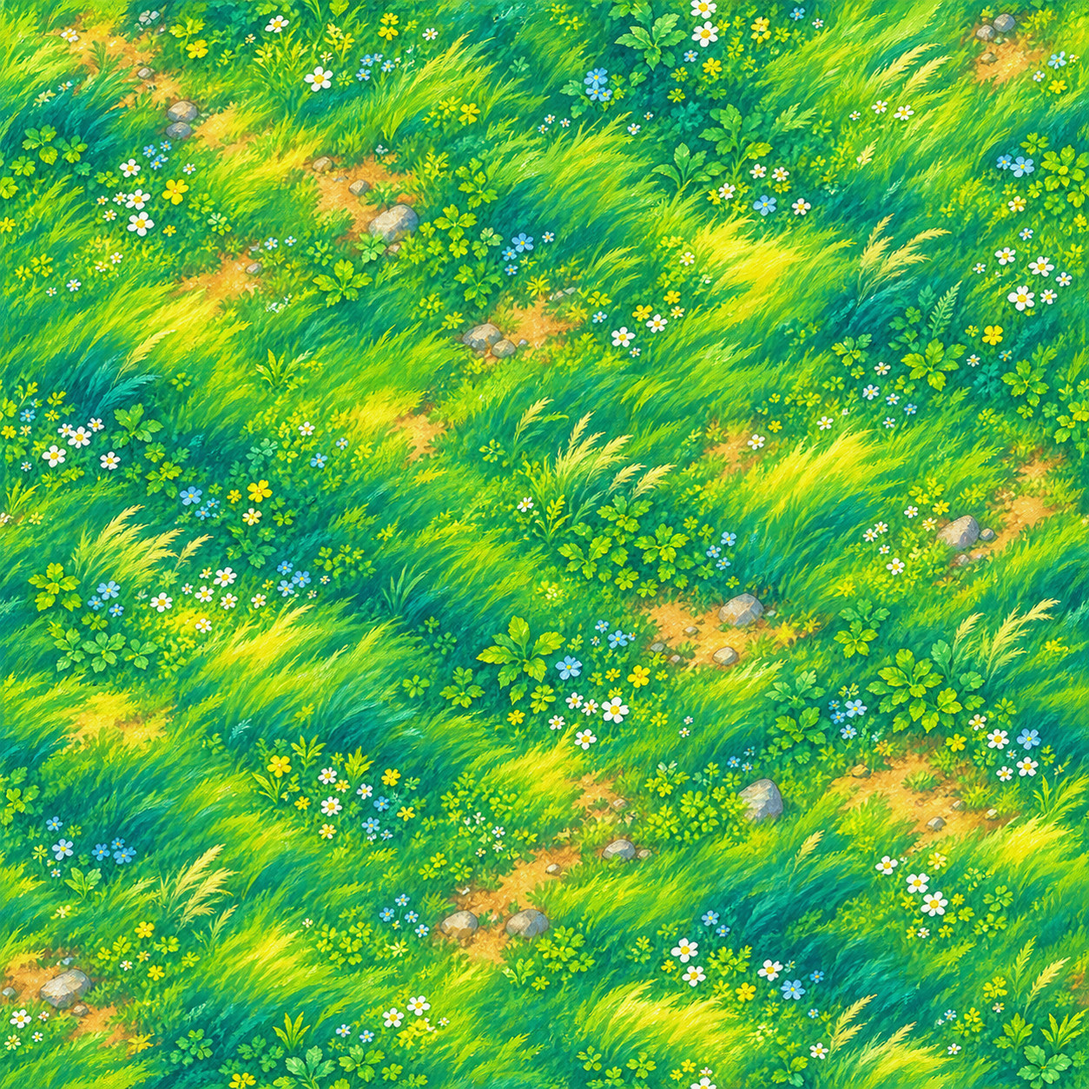
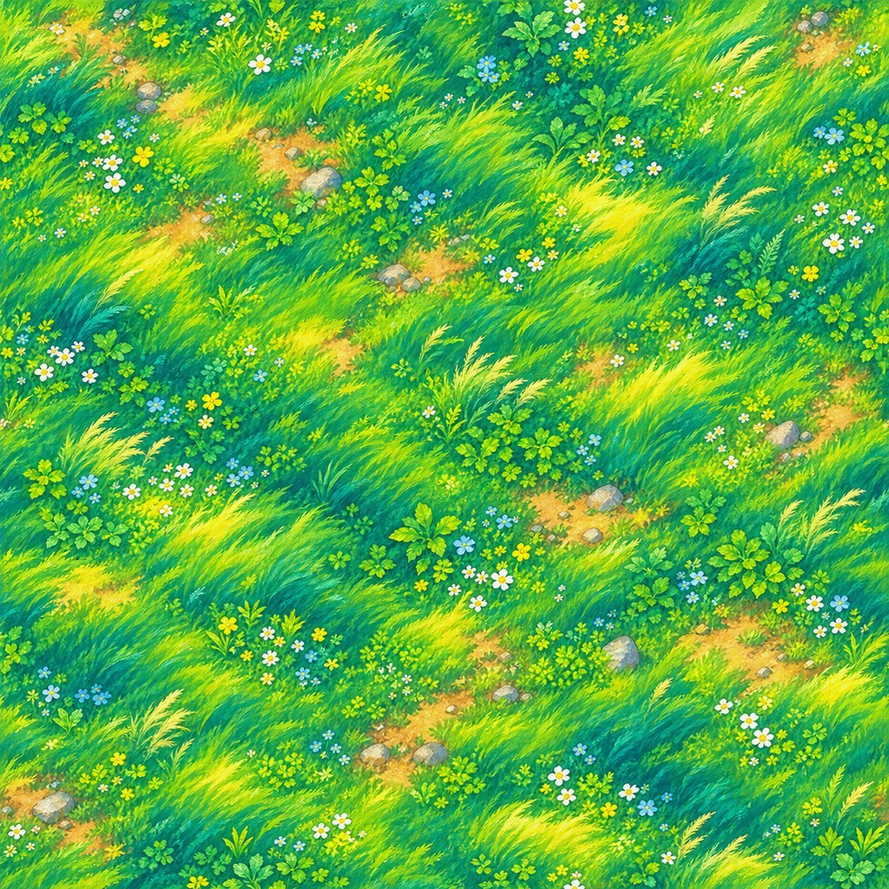
草地の縞・視界をふさぐ板・海に浮く三角を直す
見た目の粗として残っていた3点を修正した。

- 地面の反復を、横と縦で1タイルの大きさがそろうように計算しなおした。
  これまでは1タイルが横5・縦220ユニットを覆っていて、草が
  進行方向へ40倍に引きのばされ、縞のように見えていた（CONFIG.groundTileSize）
- 草土手の板を小さくし、道から遠ざけた。幅24・距離11.8だと
  大カーブでカメラの正面へ回りこみ、道路ごと視界をふさいでいた
- 地面に立つ板は たてを保つようにした。カメラのかたむきまで写していたため、
  下り坂で板がのけぞり、切り抜きが宙に浮いて見えていた。空の雲だけ従来どおり
- 対岸の山なみを、となりと重なる低い稜線にした。離して置くと
  海に浮かぶ灰色の三角に見えていた
- 壇山を低く・奥の列ほど空の色をまぜた緑にして、深く沈めた
- MeshLambertMaterial の flatShading を廃止（対応しておらず警告だけ出ていた）。
  稜線の面を出したい山は MeshPhongMaterial にした
- 8/23 追加の画像をほかの素材とおなじ大きさへそろえ、初回読み込みを 9.1MB → 6.0MB に

同じ地点での描画は 1.9ms → 2.4ms／ドローコールは変化なし。
周回してもジオメトリ956個・テクスチャ44枚で安定することを確認した。

diff --git a/game.js b/game.js
@@ -55,6 +55,7 @@ const CONFIG = {
   guidePostSpacing: 7,    // 大カーブの黄色ポールの間隔
   raftCount: 9,           // 海にうかぶ養殖いかだの数
   ridgeLayers: 3,         // 対岸の山なみのレイヤー数
+  groundTileSize: 30,     // 地面の絵1枚が覆う広さ（ユニット）。大きいほど筆づかいが大きく出る
 };
 
 /* ------------------------- 2. COURSE ★かえてみよう -------------------------
@@ -542,6 +543,7 @@ function makeCloudCluster(rng, tall = false) {
     const plane = new THREE.Mesh(new THREE.PlaneGeometry(2, tall ? 2.4 : 1.6), mat);
     g.add(plane);
     g.userData.billboard = true;
+    g.userData.sky = true;   // 空にうかぶ板だけは、カメラのかたむきごと向く
     return g;
   }
   const g = new THREE.Group();
@@ -948,7 +950,7 @@ function makeHouse(rng) {
   // 切妻屋根。三角柱を横に倒してつくる。
   const roof = new THREE.Mesh(
     sharedGeo('houseRoof', () => new THREE.CylinderGeometry(d * 0.72, d * 0.72, w * 1.06, 3)),
-    sharedMat('houseRoof', () => new THREE.MeshLambertMaterial({ color: 0x4a4038, flatShading: true }))
+    sharedMat('houseRoof', () => new THREE.MeshLambertMaterial({ color: 0x4a4038 }))
   );
   roof.rotation.z = Math.PI / 2;
   roof.rotation.y = Math.PI / 2;
@@ -1055,15 +1057,20 @@ function buildScenery(path, totalLength) {
 
   // 道路脇を3段に分ける。大きな平面1枚ではなく、高低差のある草地と石垣にする。
   // 大きな筆跡・土・小花が遠くでも残るよう、細かい反復をやめて低回数で貼る。
-  const makeGroundMat = (xRepeat, tint) => {
+  // UV は「帯の幅ぜんぶで 0→1」「コース全長で 0→1」でつくってある。
+  // そのため横と縦で「1タイルが覆うユニット数」をそろえないと、
+  // 草が進行方向へ引きのばされて、地面が縞のように見えてしまう。
+  const tile = CONFIG.groundTileSize;
+  const alongRepeat = Math.max(4, Math.round(totalLength / tile));
+  // 引数は「その材質を貼る帯のだいたいの幅」。左右で幅がちがうので平均を渡す。
+  const makeGroundMat = (bandWidth, tint) => {
     const material = new THREE.MeshLambertMaterial({ color: tint });
     material.userData.textureTint = tint;
-    return useTex('ground', material, [xRepeat, Math.max(4.5, totalLength / 220)]);
+    return useTex('ground', material, [bandWidth / tile, alongRepeat]);
   };
-  // 広い斜面へ横1枚を引き伸ばすと縞になるため、帯の幅に合わせて横の反復数を変える。
-  const grassNearMat = makeGroundMat(1.35, 0xaab99e);
-  const grassMidMat = makeGroundMat(3.2, 0x9fb394);
-  const grassFarMat = makeGroundMat(6.0, 0x96aa8d);
+  const grassNearMat = makeGroundMat(6.1, 0xaab99e);
+  const grassMidMat = makeGroundMat(14.4, 0x9fb394);
+  const grassFarMat = makeGroundMat(31, 0x96aa8d);
   worldGroup.add(buildRibbon(path, -roadHalf - 7, -roadHalf, grassNearMat, -0.06, totalLength));
   worldGroup.add(buildSlopedRibbon(path, -roadHalf - 24, -roadHalf - 7, grassMidMat, 2.0, 0.82, totalLength, 0.55));
   worldGroup.add(buildSlopedRibbon(path, -roadHalf - 58, -roadHalf - 24, grassFarMat, 4.1, 2.0, totalLength, 1.0));
@@ -1189,8 +1196,10 @@ function buildScenery(path, totalLength) {
 
   // 新しい横長素材を距離と高さをずらして重ね、同じ草1枚の反復を目立たなくする。
   const layeredScenery = [
-    { texture: TEX.meadowBankA, width: 24, height: 7.7, step: 27, near: 11.8, lift: 0.58 },
-    { texture: TEX.meadowBankB, width: 20, height: 6.4, step: 39, near: 17.5, lift: 0.94 },
+    // near（道からの距離）は かならず width の半分より大きくする。
+    // 近すぎる大きな板は、カーブでカメラの正面へ回りこんで視界をふさぐ。
+    { texture: TEX.meadowBankA, width: 17, height: 6.4, step: 27, near: 15.5, lift: 0.58 },
+    { texture: TEX.meadowBankB, width: 15, height: 5.4, step: 39, near: 19.0, lift: 0.94 },
     { texture: TEX.fantasyHedge, width: 16, height: 5.3, step: 25, near: 13.2, lift: 0.55 },
     { texture: TEX.fantasySlope, width: 21, height: 7.2, step: 76, near: 16.5, lift: 1.2 },
     { texture: TEX.fantasyGrove, width: 25, height: 11.4, step: 54, near: 28, lift: 2.25 },
@@ -1398,18 +1407,22 @@ function buildScenery(path, totalLength) {
   }
 
   // 対岸の山なみ。遠い層ほど空の色に近づけると、いっきに奥ゆきが出る。
-  const ridgeTints = [0x6d9cb8, 0x87b0c6, 0x9fc2d2];
+  // 山をひとつずつ離して置くと「海にうかぶサメのひれ」に見えてしまう。
+  // 半径を となり同士の間隔より大きくして重ね、ひとつづきの稜線にする。
+  const ridgeTints = [0x8fb6c6, 0xa6c8d4, 0xbad7de];
   for (let layer = 0; layer < CONFIG.ridgeLayers; layer++) {
     const ahead = 1250 + layer * 420;
     const scale = 1 + layer * 0.45;
+    const gap = 150 * scale;
     // 霧の色を焼きこんだ単色。fog を切らないと遠すぎて消えてしまう。
-    const ridgeMat = new THREE.MeshBasicMaterial({ color: ridgeTints[layer] || 0x9fc2d2, fog: false });
+    const ridgeMat = new THREE.MeshBasicMaterial({ color: ridgeTints[layer] || 0xbad7de, fog: false });
     for (let i = -7; i <= 7; i++) {
-      const r = (95 + rng() * 85) * scale;
-      const peak = new THREE.Mesh(new THREE.ConeGeometry(r, r * (0.28 + rng() * 0.16), 6), ridgeMat);
+      const r = gap * 1.15 + rng() * gap * 0.5;
+      // 高さは半径の2割ほど。とがらせるほど「対岸の島」ではなく「岩」に見える。
+      const peak = new THREE.Mesh(new THREE.ConeGeometry(r, r * (0.17 + rng() * 0.09), 6), ridgeMat);
       const rp = end.pos.clone()
-        .addScaledVector(end.forward, ahead + (rng() - 0.5) * 220)
-        .addScaledVector(end.right, i * 175 * scale + (rng() - 0.5) * 90);
+        .addScaledVector(end.forward, ahead + (rng() - 0.5) * 160)
+        .addScaledVector(end.right, i * gap + (rng() - 0.5) * 45);
       peak.position.set(rp.x, seaY, rp.z);
       worldGroup.add(peak);
     }
@@ -1428,16 +1441,24 @@ function buildScenery(path, totalLength) {
   }
 
   // 右手にそびえる壇山の稜線。「平らな緑」を断ち切る。
-  const mountainMat = new THREE.MeshLambertMaterial({ color: 0x4f7f45, flatShading: true });
+  // MeshLambertMaterial は flatShading を持たない（警告が出るだけで効かない）ので Phong を使う。
+  // 山は霧（260ユニットから）より手前に立つので、霧では ぼかせない。
+  // かわりに 奥の列ほど空の色をまぜた緑にして、自前で かすませる。
+  const mountainMats = [
+    new THREE.MeshPhongMaterial({ color: 0x5f8d55, flatShading: true, shininess: 2 }),
+    new THREE.MeshPhongMaterial({ color: 0x86a882, flatShading: true, shininess: 2 }),
+  ];
   for (let d = 60; d < totalLength; d += 120) {
     const s = sampleAt(path, d);
     for (let k = 0; k < 2; k++) {
-      const r = 46 + rng() * 34;
-      const hill = new THREE.Mesh(new THREE.ConeGeometry(r, r * (0.5 + rng() * 0.3), 7), mountainMat);
+      const r = 52 + rng() * 40;
+      // とがらせるほど「山」ではなく「三角の板」に見える。低くて丸い稜線にする。
+      const hill = new THREE.Mesh(new THREE.ConeGeometry(r, r * (0.32 + rng() * 0.16), 7), mountainMats[k]);
       // 山のふもとが道路へせり出さないよう、半径のぶんだけ必ず右へ逃がす
       const offset = roadHalf + 46 + r + k * 58 + rng() * 30;
       const hp = s.pos.clone().addScaledVector(s.right, offset);
-      hill.position.set(hp.x, s.pos.y - 6 + k * 4, hp.z);
+      // 深めに沈めて、ふもとを道ばたの草むらの後ろへ隠す
+      hill.position.set(hp.x, s.pos.y - 11 + k * 5, hp.z);
       worldGroup.add(hill);
     }
   }
@@ -1955,8 +1976,15 @@ function animate() {
 
   applyPendingRebuilds();
 
-  // 雲などの板は つねにカメラを向ける
-  for (const b of billboards) b.quaternion.copy(camera.quaternion);
+  // 板はカメラのほうを向く。ただし地面に立っているものは たてのまま向きだけ変える。
+  // カメラのかたむきまで真似ると、下り坂で板がのけぞり、足もとが地面から浮いて見える。
+  for (const b of billboards) {
+    if (b.userData.sky) {
+      b.quaternion.copy(camera.quaternion);
+    } else {
+      b.rotation.set(0, Math.atan2(camera.position.x - b.position.x, camera.position.z - b.position.z), 0);
+    }
+  }
 
   const time = performance.now() * 0.001;
 

diff --git a/index.html b/index.html
@@ -80,7 +80,7 @@
   threeScript.onload = () => {
     const gameScript = document.createElement('script');
     // 景色素材の更新時に古いゲームコードがブラウザキャッシュへ残らないようにする。
-    gameScript.src = 'game.js?v=20260823-5';
+    gameScript.src = 'game.js?v=20260823-7';
     document.body.appendChild(gameScript);
   };
   threeScript.onerror = () => {

diff --git a/指示書_豊島再現と没入感.md b/指示書_豊島再現と没入感.md
@@ -29,6 +29,32 @@
 - 本数の多い同じ部品は `InstancedMesh` でまとめて1回描く（黄色ポール・ガードレール支柱が実例）
 - 実測: 6周してもジオメトリ約755個で安定、描画 1.9ms/フレーム
 
+## 見た目でつまずいた3つ（2026-08-23 修正ずみ）
+
+同じ形で また踏みやすいので、さわる前に読むこと。
+
+**1. 地面が縞に見える → 反復の「たてよこ比」がずれている**
+
+`buildRibbon` の UV は「帯の幅ぜんぶで 0→1」「コース全長で 0→1」。
+つまり `repeat` の横と縦は、覆う距離がまったくちがう。
+1タイルが覆うユニット数を、横と縦でそろえること（`CONFIG.groundTileSize`）。
+そろっていないと、草が進行方向へ引きのばされて 縞のように見える。
+anisotropy では直らない（あれはサンプリングの補正で、伸びそのものは消えない）。
+
+**2. 大きな板が視界をふさぐ → `near` は `width` の半分より大きく**
+
+`layeredScenery` の板はカメラを向くので、道からの距離 `near` が `width/2`（＋`scale` の最大1.24倍）
+より小さいと、カーブで板が道路の上まで回りこんでくる。
+
+**3. 切り抜きが宙に浮く → 地面に立つ板は たてを保つ**
+
+板に `camera.quaternion` をそのまま写すと、下り坂ではカメラのかたむきまで真似てしまい、
+板がのけぞって足もとが地面から離れる。
+向き（Y軸）だけ合わせること。空の雲だけは `userData.sky = true` で全方向を向かせている。
+
+**おまけ**: `MeshLambertMaterial` は `flatShading` を持たない。
+面を出したいときは `MeshPhongMaterial` を使う（Lambert に書いても警告が出るだけ）。
+
 ---
 
 ## ゴール
